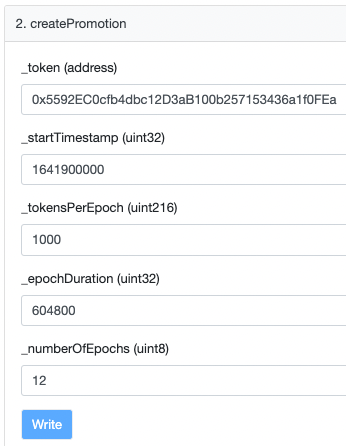
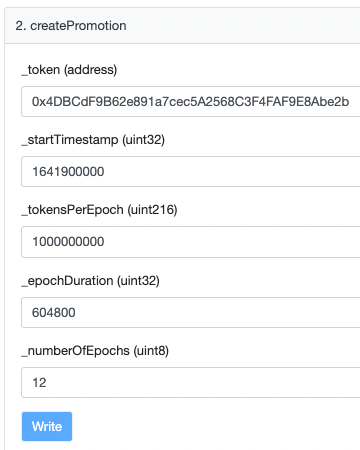
feat(TwabRewards): improve how to section

diff --git a/docs/how-to/twab-rewards.md b/docs/how-to/twab-rewards.md
@@ -5,9 +5,35 @@ sidebar_position: 1
 
 # Twab Rewards
 
-## How to create a promotion
+The Twab Rewards contract allows anyone to distribute tokens to prize pool depositors.
 
-The Twab Rewards contract allow anyone to create a promotion for depositors into a pool.
+To distribute tokens, you will create what we call a promotion.
+
+The tutorials bellow will walk you through the process of:
+- creating a promotion
+- extending the promotion
+- ending the promotion
+- destroying the promotion
+
+## Key concepts
+
+Before creating a promotion, a few key concepts are important to understand.
+
+The promotion you will create will last for a certain amount of time that we refer to as epoch.
+At the end of each epoch, the contract will reward depositors with a certain amount of tokens that you will have determined.
+Depositors need to claim these rewards, they are not automatically sent to them.
+
+If you wish to extend the promotion by a number of epochs, you can call the `extendPromotion` function.
+You will not be able to change the amount of tokens that are awarded by epoch. If you wish to change it, you will need to create a new promotion.
+
+You will be able to end the promotion at any time by calling `endPromotion` and receive the tokens from the epochs that have not been awarded yet, which means that you will only receive the amount of tokens from the epochs that have not yet completed.
+
+Once the promotion has ended, you can call `destroyPromotion` to destroy it and receive the tokens that have not been claimed yet.
+This function is only callable 60 days after the end or the creation of the promotion to give some time to users to claim their rewards.
+
+Now that you know the inner workings of a promotion, you are ready to create your first one.
+
+## Verify that you are interacting with the right contract
 
 This contract being tied to a pool, it is important that you first verify that the Twab Rewards contract you are interacting with is tied to the pool you want to create the promotion for.
 
@@ -29,23 +55,76 @@ To get the ticket address used by the `TwabRewards` contract, you can load it in
 
 If the addresses match, you are good to go.
 
-Before creating a promotion, a few key concepts are important to understand.
+## How to create a promotion
 
-The promotion you will create will last for a certain amount of time that we refer to as `epoch`.
-At the end of each epoch, the contract will reward depositors with a certain amount of tokens that you will have determined.
-Depositors need to claim these rewards, they are not automatically sent to them.
+The following tutorial will explain you how to create a promotion that will last for 3 months and award 12,000 tokens to the pool depositors.
 
-If you wish to extend the promotion by a number of epochs, you can call the `extendPromotion` function.
-You will not be able to change the amount tokens that are awarded by epoch. If you wish to change it, you will need to create a new promotion.
+Each epoch will last for 1 week, since there are 4 weeks in a month, the total number of epochs is `3 * 4 = 12`.
 
-You will be able to end the promotion at any time by calling `endPromotion` and receive the tokens from the epochs that have not been awarded yet, which means that you will only receive the amount of tokens from the epochs that have not yet started.
+We want to award 12,000 tokens in total, so we will award `12000 / 12 = 1000` tokens per epoch.
 
-Once the promotion has ended, you can call `destroyPromotion` to destroy it and receive the tokens that have not been claimed yet.
-This function is only callable 60 days after the end of the promotion to give some time to users to claim their rewards.
+### Approve the Twab Rewards contract to spend your tokens
 
-Tutorials in this section are here to explain you how the above functions work and how you can interact with them.
+Before creating a promotion, you need to approve the Twab Rewards contract to spend your ERC20 tokens.
 
-Now that you know the inner workings of a promotion, you are ready to create your first promotion.
+Let's take for example the USDC token.
+
+After loading the contract in Etherscan, you should first check the number of decimals used by the token.
+To do so, you can look at the `decimals` variable in the `Read Contract` section.
+
+<img
+  src={require('/img/how-to/twab-rewards/usdc-decimals-etherscan.png').default}
+  alt='USDC decimals variable on Etherscan'
+  class='padding-bottom--md'
+/>
+
+As we can see, the number of decimals is 6, meaning that when approving the contract to spend your tokens, you will need to pad your amount with 6 zeros.
+
+To approve the contract to spend your tokens, you will need to call the `approve` function in the `Write Contract` section.
+
+This is the parameters the function expects:
+- `spender`: the address of the Twab Rewards contract
+- `amount`: the amount of tokens you want to approve
+
+Fill the `spender` parameter with the address of the Twab Rewards contract.
+
+<img
+  src={require('/img/how-to/twab-rewards/usdc-spender-etherscan.png').default}
+  alt='USDC spender on Etherscan'
+  class='padding-bottom--md'
+/>
+
+Fill the `amount` parameter with the amount of tokens you want to approve. 12,000 in our case.
+
+To pad the amount, you can use the useful `Add zeroes` popin by clicking on the `+` button.
+
+<img
+  src={require('/img/how-to/twab-rewards/usdc-amount-etherscan.png').default}
+  alt='USDC amount on Etherscan'
+  class='padding-bottom--md'
+/>
+
+Then select `10ˆ6` and click on the `Add` button.
+
+<img
+  src={require('/img/how-to/twab-rewards/usdc-pad-etherscan.png').default}
+  alt='USDC Add zeroes popin on Etherscan'
+  class='padding-bottom--md'
+/>
+
+The parameters should look like this:
+
+<img
+  src={require('/img/how-to/twab-rewards/usdc-approve-etherscan.png').default}
+  alt='USDC approve function on Etherscan'
+  class='padding-bottom--md'
+/>
+
+Click on the `Write` button to send the transaction.
+
+Once your transaction is mined, the Twab Rewards contract can now spend up to 12,000 of your USDC tokens. You are ready to create your first promotion.
+
+### Create a promotion
 
 Load the Twab Rewards contract in Etherscan, go to the `Write Contract` section and unfold the `createPromotion` function.
 
@@ -57,15 +136,14 @@ Load the Twab Rewards contract in Etherscan, go to the `Write Contract` section 
 
 We will go over each parameter of the function in order to understand how to fill them out:
 - `_token`: address of the token you wish to award to the depositors.
-- `_startTimestamp`: timestamp at which the promotion will start. Needs to be in the future, so choose a timestamp further away enough for your transaction to be successfully mined.
+- `_startTimestamp`: timestamp at which the promotion will start.
 - `_tokensPerEpoch`: the amount of tokens that will be awarded to the depositors at the end of each epoch.
 - `_epochDuration`: the duration of each epoch in seconds.
 - `_numberOfEpochs`: the number of epochs the promotion will last for.
 
-Let's take a concrete example to understand how to fill the last three parameters.
-For example, we want to create a promotion that will last for 3 months and award 12,000 tokens to the depositors.
+We want to award 12,000 tokens during a period of 3 months.
 
-We decide that each epoch will last for 1 week, so `_epochDuration` will be `604800`.
+We decide that each epoch will last for 1 week, so `_epochDuration` in seconds will be `604800`.
 
 There is 4 weeks in a month, since we want the promotion to run for 3 months, `_numberOfEpochs` will be `3 * 4 = 12`.
 
@@ -81,7 +159,13 @@ We are now ready to fill out the promotion parameters.
 
 Click on the `Write` button to send the transaction.
 
-Once the transaction has been mined, you should look at the transaction on Etherscan and go to the `Logs` section to retrieve the id of the promotion you just created.
+Once your transaction is mined, you will have successfully created your first promotion.
+
+We will now see how you can retrieve the id of the promotion, so you can interact with it in the future.
+
+### Retrieve the promotion id
+
+Load the transaction that created your promotion on Etherscan and go to the `Logs` section to retrieve the id of the promotion.
 
 Here, the promotion id is `1`.
 
@@ -90,11 +174,15 @@ Here, the promotion id is `1`.
   alt='Twab Rewards PromotionCreated log on Etherscan'
 />
 
+Now that you have the id of your promotion, you can manage it through several functions.
+
+We will go through each of these functions in the tutorials below.
+
 ## How to extend a promotion
 
-The process to extend a promotion is fairly straight forward.
+If you wish to extend a promotion by a number of epochs, you can call the `extendPromotion` function.
 
-The following parameters need to be filled out:
+You will need to fill the following parameters:
 - `_promotionId`: id of the promotion you wish to extend.
 - `_numberOfEpochs`: number of epochs the promotion will be extended for.
 
@@ -120,9 +208,9 @@ Click on the `Write` button to send the transaction. Once your transaction is mi
 
 ## How to end a promotion
 
-You can call the `endPromotion` function to end a promotion.
+The `endPromotion` function allows you to end a currently running promotion.
 
-Keep in mind that you will only receive the amount of tokens from the epochs that have not yet started.
+Keep in mind that you will only receive the amount of tokens from the epochs that have not yet completed.
 
 The following parameters need to be filled out:
 - `_promotionId`: id of the promotion you wish to end.
@@ -144,15 +232,17 @@ This is how you will fill out the parameters:
   class='padding-bottom--md'
 />
 
-Click on the `Write` button to send the transaction. Once your transaction is mined, you should receive the tokens from the epochs that have not yet started.
+Click on the `Write` button to send the transaction. Once your transaction is mined, you should receive the tokens from the epochs that have not yet completed and your promotion is now ended.
 
 ## How to destroy a promotion
 
 You can call the `destroyPromotion` function to destroy a promotion.
 
-Only promotions that have ended can be destroyed. Which means that no epoch is currently running for this promotion.
+Only promotions that have ended or have not started yet can be destroyed. Which means that no epoch is currently running for this promotion.
 
-Keep in mind that you can only destroy a promotion 60 days after the end of the promotion. Only the tokens that have not been claimed yet will be sent back to the wallet you specify.
+Keep in mind that you can only destroy a promotion 60 days after the end of the promotion or it's creation, if the promotion is not currently running.
+
+Only the tokens that have not been claimed yet will be sent back to the wallet you specify.
 
 The following parameters need to be filled out:
 - `_promotionId`: id of the promotion you wish to destroy.
@@ -174,4 +264,4 @@ This is how you will fill out the parameters:
   class='padding-bottom--md'
 />
 
-Click on the `Write` button to send the transaction. Once your transaction is mined, you should receive the tokens that have not been claimed.
+Click on the `Write` button to send the transaction. Once your transaction is mined, you should receive the tokens that have not been claimed and your promotion is now destroyed.
